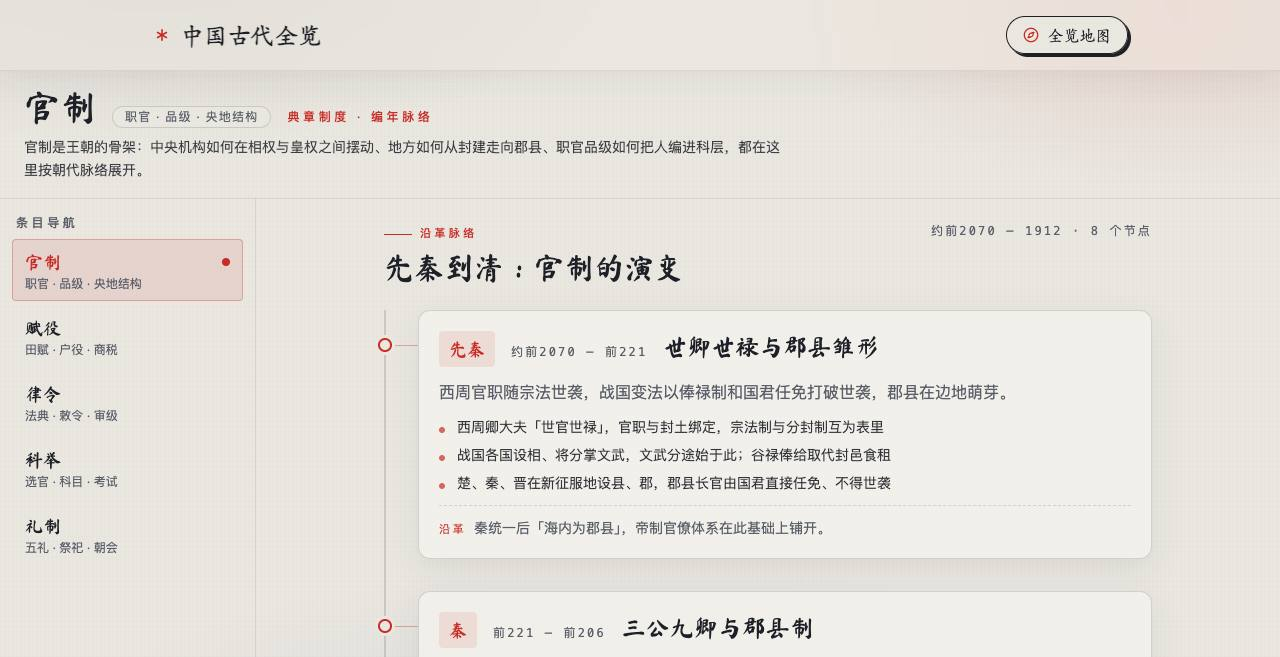
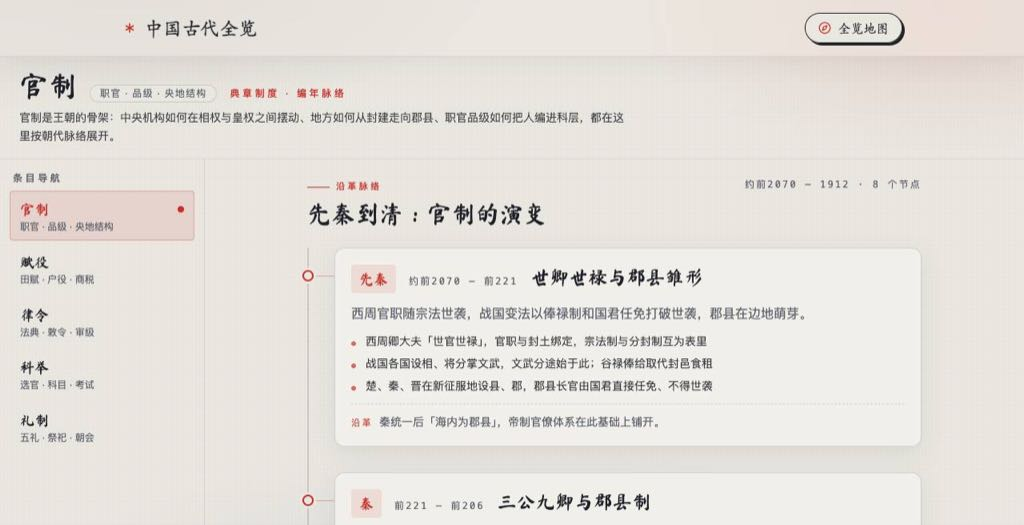
perf(home): 轮播截图瘦身至 1024px，首图高优先、其余懒加载
- public/home-screenshots/ 11 张 1280px 截图单次重编码为 1024px/q50：
  864K → 596K（-31%），轮播同屏并发的首屏图片总重下降
- 首张功能截图（LCP 候选）改立即抓取 + fetchPriority="high"，其余幻灯片
  图片保持 loading="lazy" 并加 decoding="async"（解码不阻塞 3D / 入场动画）
- AGENTS.md 轮播段落补截图体积与加载优先级口径

diff --git a/src/pages/home.tsx b/src/pages/home.tsx
@@ -31,6 +31,9 @@ import { Button } from "../components/ui/button";
 import { cn } from "../lib/utils";
 import { HOME_ENTRY_ROUTES, type HomeEntryIcon } from "./page-resources";
 
+/** 首张功能截图的下标：它是首屏 LCP 候选图，立即高优先抓取；其余幻灯片的图走懒加载。 */
+const FIRST_SCREENSHOT_INDEX = HOME_ENTRY_ROUTES.findIndex((entry) => Boolean(entry.screenshot));
+
 const ENTRY_ICONS: Record<HomeEntryIcon, typeof Landmark> = {
   "book-open": BookOpen,
   compass: Compass,
@@ -133,7 +136,7 @@ export function HomePage() {
         </div>
 
         <HomeEntryCarousel label="核心入口与后续专题">
-          {HOME_ENTRY_ROUTES.map((entry) => {
+          {HOME_ENTRY_ROUTES.map((entry, index) => {
             const Icon = ENTRY_ICONS[entry.icon];
 
             // 筹备中条目保持不可点击，用虚线纸页与「筹备中」印明确标示。
@@ -168,7 +171,9 @@ export function HomePage() {
                     <img
                       src={`/home-screenshots/${entry.screenshot}`}
                       alt={`${entry.title}页面截图`}
-                      loading="lazy"
+                      decoding="async"
+                      fetchPriority={index === FIRST_SCREENSHOT_INDEX ? "high" : undefined}
+                      loading={index === FIRST_SCREENSHOT_INDEX ? undefined : "lazy"}
                     />
                   ) : (
                     <div className="grid h-full place-items-center">

diff --git a/AGENTS.md b/AGENTS.md
@@ -10,7 +10,7 @@ This repository is **中国古代全览**, a React 19 + TypeScript single-page a
 - a Three.js-powered 3D chronology at `/china/timeline`,
 - a dynasty policy atlas at `/china/policies`,
 - one unified 疆域与民族图谱 explorer at `/china/atlas` (top mega-menu entry: 历史地理 / 图谱总览) with `/china/atlas/*` as preset-layer entry points (all render the same `AtlasExplorer` with a persistent SVG),
-- resource-driven home entries rendered as a **large cross-fade carousel** (`HomeEntryCarousel`): one feature preview at a time with a real page screenshot from `public/home-screenshots/`, a title, description and a per-entry `note` (读图注释); slow 6.5s autoplay paused on hover/focus and under reduced motion; no horizontal page-sliding. Preview entries stay in the same stage as non-clickable `article` cards — preview entries must not render as clickable cards. The former「如何阅读中国古代全览」section was removed: it restated the same resource metadata as the entry cards without any actionable affordance and pushed real navigation below the fold. Its guidance now lives where it is usable — the per-entry 读图注释 inside each carousel slide. `aboutItems` / `readingGuides` remain in `PageResourceConfig` as declarative metadata but are no longer aggregated or rendered by the home page,
+- resource-driven home entries rendered as a **large cross-fade carousel** (`HomeEntryCarousel`): one feature preview at a time with a real page screenshot from `public/home-screenshots/`, a title, description and a per-entry `note` (读图注释); slow 6.5s autoplay paused on hover/focus and under reduced motion; no horizontal page-sliding. Screenshot images ship small (1024px long-side, light JPEG) and load with a first-slide LCP strategy: the first entry's screenshot loads eagerly with `fetchPriority="high"`, every other slide's image stays `loading="lazy"` + `decoding="async"`. Preview entries stay in the same stage as non-clickable `article` cards — preview entries must not render as clickable cards. The former「如何阅读中国古代全览」section was removed: it restated the same resource metadata as the entry cards without any actionable affordance and pushed real navigation below the fold. Its guidance now lives where it is usable — the per-entry 读图注释 inside each carousel slide. `aboutItems` / `readingGuides` remain in `PageResourceConfig` as declarative metadata but are no longer aggregated or rendered by the home page,
 - iframe-isolated HTML resource pages generated from `resources/html/*.html`,
 - a 404 fallback page for unknown routes.
 
